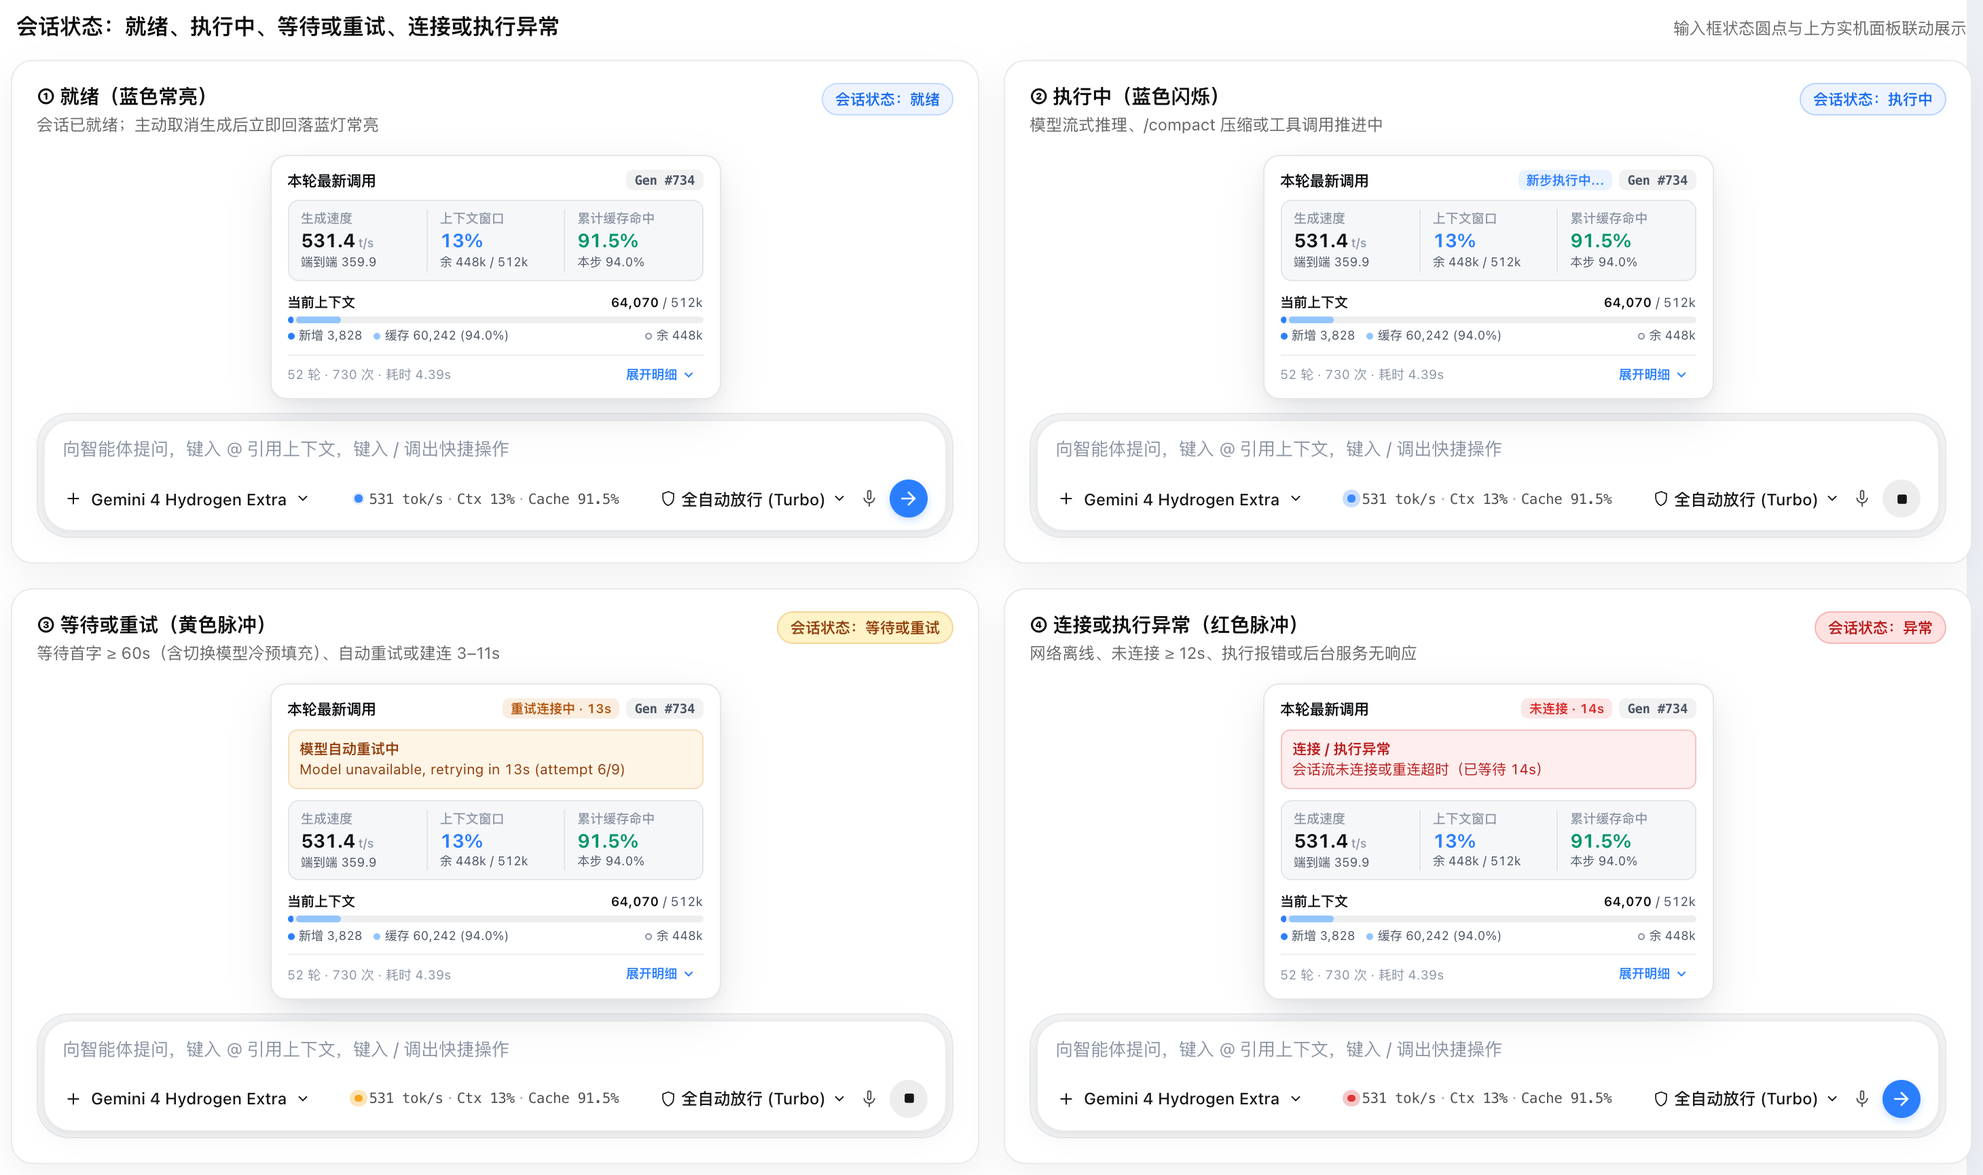
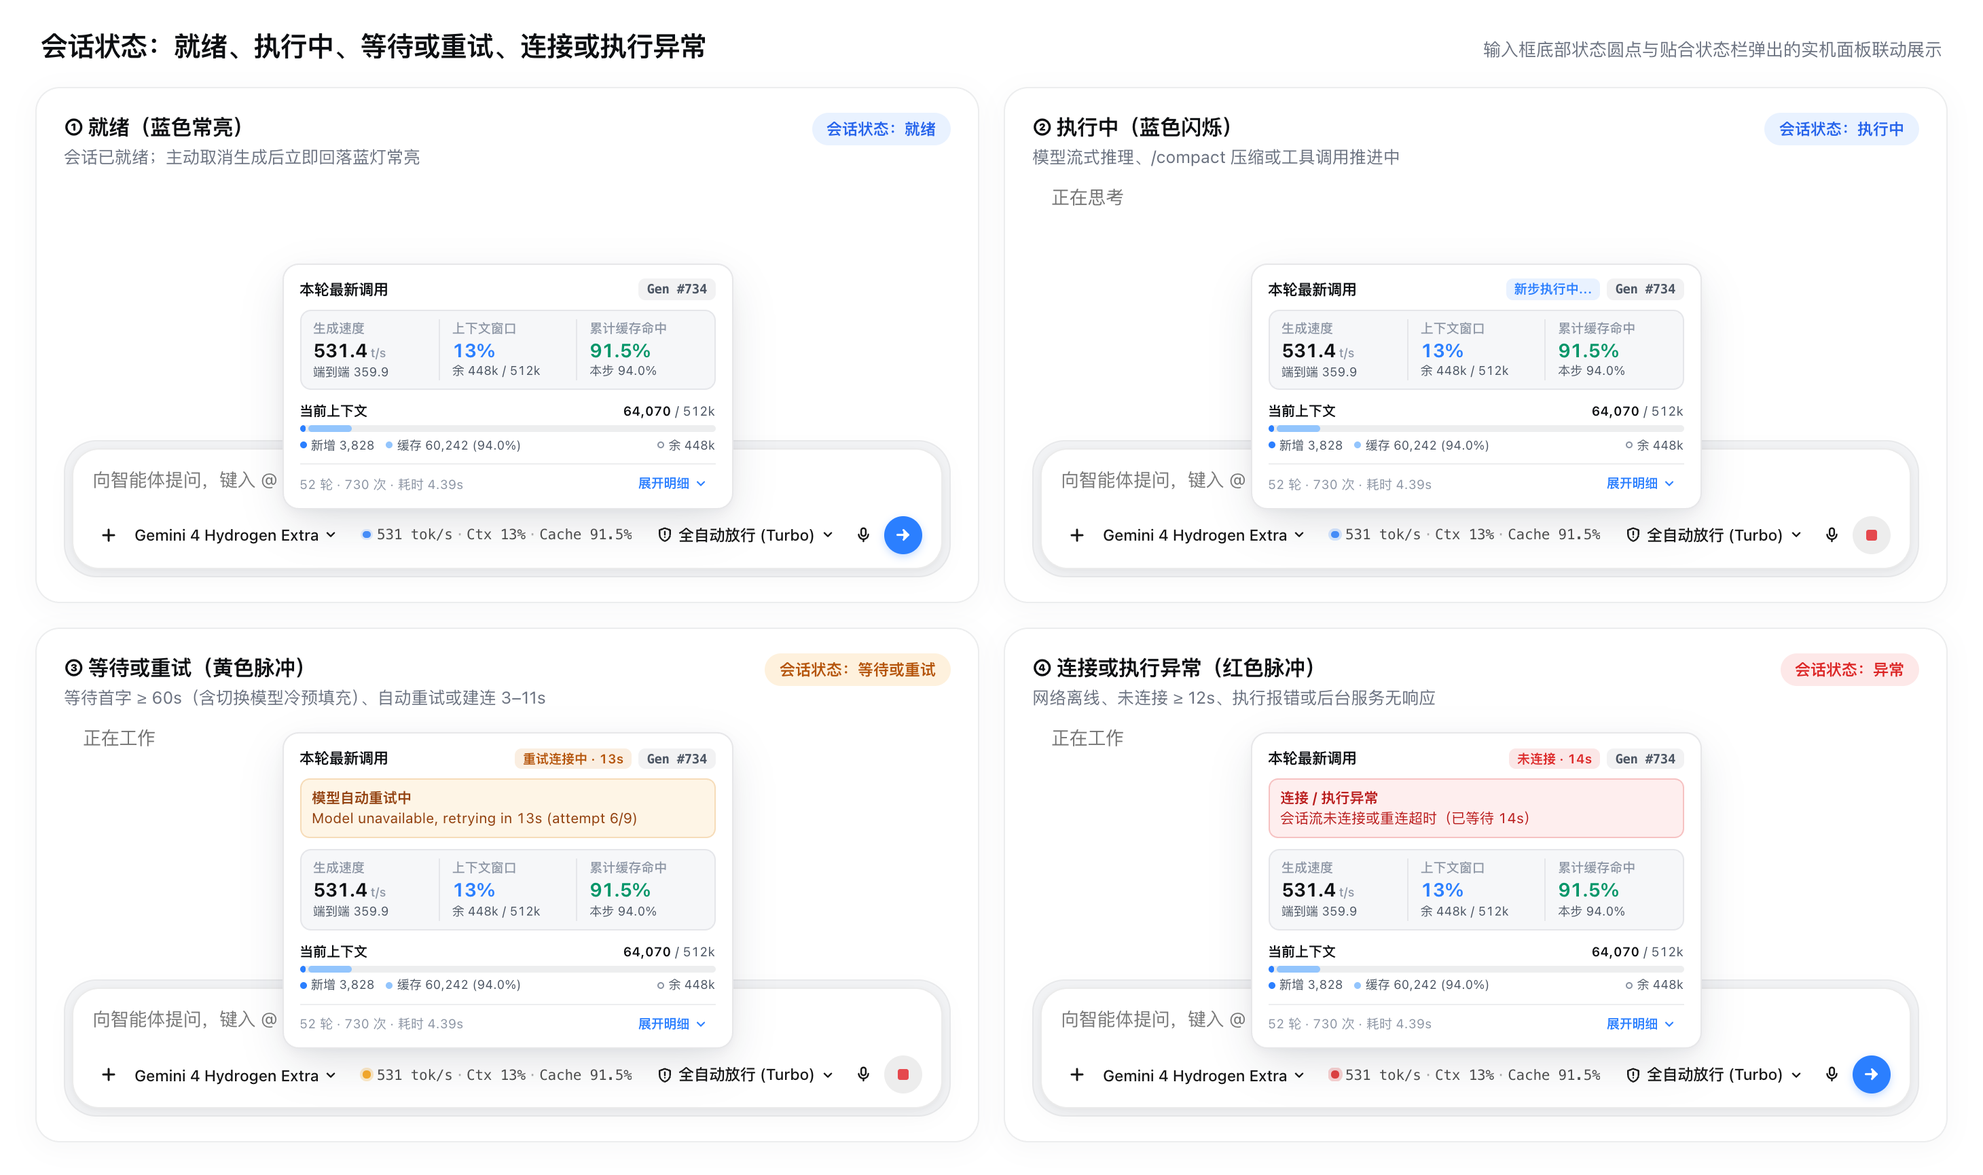
fix(telemetry): keep turn hover breakdown single-line & refresh README hero and assets

diff --git a/core/runtime/50-telemetry-ui.js b/core/runtime/50-telemetry-ui.js
@@ -542,6 +542,7 @@
     if (t.lastCtx > 0) {
       const ctxCls = t.ctxPct >= 90 ? 'ag-tmt-ctx-crit' : t.ctxPct >= 75 ? 'ag-tmt-ctx-warn' : '';
       const ctxVal =
+        '<span class="ag-tmt-nowrap">' +
         escapeStatusHtml(t.lastCtx.toLocaleString('en-US')) +
         ' / ' +
         escapeStatusHtml(t.limitStr) +
@@ -549,13 +550,14 @@
         ctxCls +
         '">(' +
         escapeStatusHtml(String(t.ctxPct)) +
-        '%)</span>';
+        '%)</span></span>';
       rows.push('<div class="ag-tmt-row"><span class="ag-tmt-lbl">当前上下文</span><span class="ag-tmt-val">' + ctxVal + '</span></div>');
     }
     if (t.outTok > 0) {
       const outVal =
+        '<span class="ag-tmt-nowrap">' +
         escapeStatusHtml(t.outTok.toLocaleString('en-US')) +
-        ' <span class="ag-tmt-sub">(思考 ' +
+        '</span> <span class="ag-tmt-nowrap ag-tmt-sub">(思考 ' +
         escapeStatusHtml(t.thinkTok.toLocaleString('en-US')) +
         ' + 正文/工具 ' +
         escapeStatusHtml(t.respTok.toLocaleString('en-US')) +
@@ -565,12 +567,15 @@
     const promptSum = t.inTok + t.cacheWrite + t.cacheRead;
     if (promptSum > 0) {
       const inVal =
-        '新增 ' +
+        '<span class="ag-tmt-nowrap">新增 ' +
         escapeStatusHtml(t.inTok.toLocaleString('en-US')) +
-        (t.cacheWrite > 0 ? ' + 写缓存 ' + escapeStatusHtml(t.cacheWrite.toLocaleString('en-US')) : '') +
-        ' + 读缓存 ' +
+        '</span>' +
+        (t.cacheWrite > 0
+          ? ' <span class="ag-tmt-nowrap">+ 写缓存 ' + escapeStatusHtml(t.cacheWrite.toLocaleString('en-US')) + '</span>'
+          : '') +
+        ' <span class="ag-tmt-nowrap">+ 读缓存 ' +
         escapeStatusHtml(t.cacheRead.toLocaleString('en-US')) +
-        ' <span class="ag-tmt-sub">(命中率 ' +
+        '</span> <span class="ag-tmt-nowrap ag-tmt-sub">(命中率 ' +
         escapeStatusHtml(t.cacheRate) +
         ')</span>';
       rows.push('<div class="ag-tmt-row"><span class="ag-tmt-lbl">本轮累计输入</span><span class="ag-tmt-val">' + inVal + '</span></div>');
@@ -578,16 +583,17 @@
     if (t.tps > 0 || t.totDur > 0) {
       const spdVal =
         (t.tps > 0
-          ? escapeStatusHtml(String(t.tps)) +
+          ? '<span class="ag-tmt-nowrap">' +
+            escapeStatusHtml(String(t.tps)) +
             ' tok/s <span class="ag-tmt-sub">(端到端 ' +
             escapeStatusHtml(String(t.e2eTps)) +
-            ' tok/s)</span> · '
+            ' tok/s)</span></span> · '
           : '') +
-        '流式 ' +
+        '<span class="ag-tmt-nowrap">流式 ' +
         escapeStatusHtml(String(t.streamDur)) +
         's / 总计 ' +
         escapeStatusHtml(String(t.totDur)) +
-        's';
+        's</span>';
       rows.push('<div class="ag-tmt-row"><span class="ag-tmt-lbl">速度与耗时</span><span class="ag-tmt-val">' + spdVal + '</span></div>');
     }
 
@@ -663,6 +669,7 @@
       const rect = badge.getBoundingClientRect();
       const vw = window.innerWidth || document.documentElement.clientWidth || 1280;
       const vh = window.innerHeight || document.documentElement.clientHeight || 800;
+      tt.style.left = '12px';
       const ttRect = tt.getBoundingClientRect();
       const ttW = tt.offsetWidth || ttRect.width || 320;
       const ttH = tt.offsetHeight || ttRect.height || 130;

diff --git a/core/styles/30-telemetry.css b/core/styles/30-telemetry.css
@@ -772,7 +772,7 @@
   box-sizing: border-box;
   width: max-content;
   min-width: 280px;
-  max-width: min(420px, calc(100vw - 24px));
+  max-width: min(560px, calc(100vw - 24px));
   padding: 9px 11px;
   border-radius: 10px;
   background-color: var(--ag-tmt-bg) !important;
@@ -860,6 +860,10 @@
   color: var(--ag-tmt-ink) !important;
   text-align: right;
   word-break: keep-all;
+}
+
+#ag-turn-metrics-tooltip .ag-tmt-nowrap {
+  white-space: nowrap;
 }
 
 #ag-turn-metrics-tooltip .ag-tmt-sub {

diff --git a/README.md b/README.md
@@ -1,8 +1,39 @@
-# antigravity-codex-theme
+<div align="center">
 
-面向 Google Antigravity 的 Codex 风格昼夜主题、中文界面与实时会话统计插件。代码按职责拆分为 27 个独立模块，支持按需启用，也便于在此基础上二次开发。
+<h1>antigravity-codex-theme</h1>
 
-[快速安装](#快速安装) · [按需安装](#按需安装) · [功能详解](#功能详解) · [自定义与卸载](#自定义与卸载) · [致谢与协议](#致谢与协议) · [English](#english-overview)
+<p><strong>Google Antigravity 的 Codex 风格昼夜主题、中文界面与实时会话统计插件</strong></p>
+
+<p>
+  <a href="#快速安装">快速安装</a> ·
+  <a href="#按需安装">按需安装</a> ·
+  <a href="#功能详解">功能详解</a> ·
+  <a href="#自定义与卸载">自定义与卸载</a> ·
+  <a href="#致谢与协议">致谢与协议</a> ·
+  <a href="#english-overview">English</a>
+</p>
+
+<p>
+  不修改安装包本体，通过本地 CDP 实时注入 Codex 昼夜主题、1,860+ 条中文界面、四态会话指示与每轮 Token 拆解。<br>
+  核心代码拆分为 27 个独立模块，支持 <code>--only</code> 按需安装与 Fork 自由定制。
+</p>
+
+<p>
+  <a href="https://github.com/nkjDSLcvanv/antigravity-codex-theme/actions/workflows/ci.yml"><img src="https://img.shields.io/github/actions/workflow/status/nkjDSLcvanv/antigravity-codex-theme/ci.yml?branch=main&label=CI&labelColor=363636&logo=githubactions&logoColor=white" alt="CI"></a>
+  <img src="https://img.shields.io/static/v1?label=Antigravity&message=2.30.x%20~%202.33.0%2B&color=2B7FFF&labelColor=363636" alt="Antigravity 2.30.x ~ 2.33.0+">
+  <img src="https://img.shields.io/static/v1?label=Node.js&message=%3E%3D%2022.13.0&color=339933&labelColor=363636&logo=nodedotjs&logoColor=white" alt="Node.js >= 22.13.0">
+  <img src="https://img.shields.io/static/v1?label=platform&message=macOS%20%C2%B7%20Windows%20%C2%B7%20Linux&color=4B5563&labelColor=363636" alt="macOS · Windows · Linux">
+  <img src="https://img.shields.io/static/v1?label=version&message=v1.1.0&color=2B7FFF&labelColor=363636" alt="version v1.1.0">
+  <a href="LICENSE"><img src="https://img.shields.io/static/v1?label=license&message=MIT&color=10B981&labelColor=363636" alt="MIT License"></a>
+</p>
+
+<p>
+  <a href="#命令行安装"><img src="https://img.shields.io/static/v1?label=CLI%20INSTALL&message=v1.1.0&color=2B7FFF&style=for-the-badge&labelColor=181818&logo=gnubash&logoColor=white" alt="CLI Install"></a>
+  <a href="#ai-一键安装"><img src="https://img.shields.io/static/v1?label=AI%20ONE-CLICK&message=SKILL.md&color=0D9488&style=for-the-badge&labelColor=181818&logo=googlegemini&logoColor=white" alt="AI One-Click Install"></a>
+  <a href="#按需安装"><img src="https://img.shields.io/static/v1?label=SELECTIVE%20INSTALL&message=--only&color=6366F1&style=for-the-badge&labelColor=181818&logo=codesandbox&logoColor=white" alt="Selective Install"></a>
+</p>
+
+</div>
 
 ![Codex 浅色与深色模式对比](assets/light-dark-themes.png)
 
@@ -14,13 +45,15 @@
 
 ## 快速安装
 
-环境要求与系统变更说明（两种安装方式共用）：
+> 前置要求：**Node.js >= 22.13.0**（与 [package.json](package.json) 一致）与 Google Antigravity（`2.30.x` 至 `2.33.0+`），已在 **macOS / Windows / Linux 桌面端**完成实机安装与卸载验证。安装仅部署至 `~/.gemini/antigravity/codex-theme`、配置本地调试端口并注册后台自启，**不修改安装包本体**；若安装前应用已在无调试端口状态下运行，重启一次或在外部终端执行 `node install.mjs relaunch` 即可生效。
 
-- **运行环境**：需要 **Node.js >= 22.13.0**（与 [package.json](package.json) 一致，用于内置 `node:sqlite` 读取实时会话统计）及 Google Antigravity（`2.30.x` 至 `2.33.0+`）。
-- **已验证平台**：已在 **macOS + Antigravity `2.31.0` / `2.32.1` / `2.33.0` + Node.js `v24.4.1`** 完成实机验证（涵盖 `LaunchAgent` 注册、`2.33.0` 调试端口冷启动接力、实时注入、状态面板切换与卸载还原）。仓库同时提供 Windows（`schtasks` / VBS / 注册表及 `.lnk` 参数配置）与 Linux（`systemd --user` 及 `.desktop` 启动项）脚本，GitHub Actions CI 在 `ubuntu-latest` 上执行 `npm run check` 与 `npm test`，**尚未在 Windows 与 Linux 桌面环境中实机测试安装与卸载**。
-- **系统变更**：
-  1. 适配 **Antigravity `2.33.0+`**：新版本默认关闭本地 `DevToolsActivePort`，需携带 `--remote-debugging-port=0` 启动。macOS 默认采用单图标模式，由后台守护进程在应用冷启动前 `12s`（自动更新重启时 `25s`）内自动补齐参数重启，不中断已在运行中的会话；Windows 与 Linux 则为快捷方式或 `.desktop` 启动项追加该参数，并保留 `~/.antigravity/argv.json` 兼容配置。若安装前 Antigravity 已在无调试端口状态下运行，安装完成后重启一次应用，或在外部终端执行 `node install.mjs relaunch` 即可生效。
-  2. 插件文件部署至 `~/.gemini/antigravity/codex-theme`，并注册系统后台自启服务（macOS `LaunchAgent` / Linux `systemd --user` / Windows `schtasks`），**不修改 Antigravity 安装包内的任何文件**。
+<details>
+<summary>查看各平台实测细节与 Antigravity 2.33.0+ 调试端口说明</summary>
+
+- **实机验证范围**：已在 macOS、Windows 与 Linux 桌面端完成安装、实时注入与卸载还原测试（覆盖 Antigravity `2.31.0` / `2.32.1` / `2.33.0`、macOS `LaunchAgent`、Windows `schtasks` / VBS / 注册表与 `.lnk` 参数配置、Linux `systemd --user` 与 `.desktop` 启动项）；GitHub Actions CI 在 `ubuntu-latest` 上持续执行 `npm run check` 与 `npm test`。
+- **Antigravity `2.33.0+` 适配**：新版本默认关闭本地 `DevToolsActivePort`，需携带 `--remote-debugging-port=0` 启动。macOS 默认采用单图标模式，后台守护进程仅在冷启动前 `12s`（自动更新重启时 `25s`）内补参接力重启，不中断已在运行中的会话；Windows 与 Linux 则为快捷方式或 `.desktop` 启动项追加该参数，并保留 `~/.antigravity/argv.json` 兼容写入。
+
+</details>
 
 ### 命令行安装
 
@@ -33,20 +66,13 @@ node --disable-warning=ExperimentalWarning install.mjs doctor
 
 ### AI 一键安装
 
-将以下提示词发送给 AI 助手（Antigravity / Claude Code / Codex / Cursor 等），自动完成稀疏拉取、部署与状态校验：
+将以下提示词发送给 AI 助手（Antigravity / Claude Code / Codex / Cursor 等），自动完成拉取、部署与状态校验：
 
 > 请读取 `https://github.com/nkjDSLcvanv/antigravity-codex-theme.git`，使用 `git clone --depth=1 --filter=blob:none --sparse` 拉取核心文件（参考仓库内的 `SKILL.md`，跳过 `assets/` 和 `tests/`；如需只装部分功能可追加 `--only` 参数），运行 `node install.mjs install`、`node --disable-warning=ExperimentalWarning install.mjs doctor` 和 `verify` 完成安装并确认实时注入正常。
 
 ### 按需安装
 
-4 个功能模块彼此独立，可仅安装所需部分：
-
-| 模块 | 说明 |
-| :--- | :--- |
-| `theme` | Codex 浅色 (`codex-pure-white`) 与深色 (`codex-dark`) 昼夜主题 |
-| `i18n` | 中文界面本地化（`1,860+` 条词条，`WeakMap` 原地更新） |
-| `metrics` | 实时会话状态指示、一/二级用量统计面板与每轮对话尾部统计 |
-| `fixes` | 设置弹窗路由死锁修复与 `Cmd/Ctrl + -/=/0` 界面缩放快捷键 |
+支持通过 `--only` 从 `theme`、`i18n`、`metrics`、`fixes` 四个独立模块中按需组合：
 
 ```bash
 # 示例：仅启用中文界面与实时统计，保留 Antigravity 原生配色
@@ -54,7 +80,14 @@ node install.mjs install --only i18n,metrics
 ```
 
 <details>
-<summary>精简拉取（跳过截图资源，或仅下载指定模块文件）</summary>
+<summary>查看模块说明与精简拉取命令（跳过截图或单模块下载）</summary>
+
+| 模块 | 说明 |
+| :--- | :--- |
+| `theme` | Codex 浅色 (`codex-pure-white`) 与深色 (`codex-dark`) 昼夜主题 |
+| `i18n` | 中文界面本地化（`1,860+` 条词条，`WeakMap` 原地更新） |
+| `metrics` | 实时会话状态指示、一/二级用量统计面板与每轮对话尾部统计 |
+| `fixes` | 设置弹窗路由死锁修复与 `Cmd/Ctrl + -/=/0` 界面缩放快捷键 |
 
 **1. 跳过 `assets/` 与 `tests/`，仅拉取运行核心文件（全平台通用）：**
 
@@ -123,17 +156,31 @@ node install.mjs install --only i18n --minimal
 
 *会话状态：就绪、执行中、等待或重试、连接或执行异常*
 
-悬停在状态栏上可预览一级面板，单击可固定展开，查看最近一次调用的生成速度（`tok/s` 与端到端均值）、上下文占比与剩余容量、累计缓存命中率、当前上下文构成条（新增 / 写缓存 / 读缓存 / 剩余）以及等待或异常原因。再次点击状态栏（或点击面板内的「展开明细」）可打开二级面板，查看首字延迟（TTFT）、流式耗时、思考与正文输出拆分、本轮多步汇总及会话累计输入输出。点击空白区域、按 `Esc` 或第三次点击状态栏即可收起。
+#### 用量面板与上下文预警
 
-上下文占比达到 `>= 75%` 时转为黄色预警，`>= 90%` 时转为红色提示。执行 `/compact` 期间实时显示压缩进度（跨模型切换压缩时提示 KV 缓存重算），完成后以绿色标记显示摘要大小。状态栏支持 `compact`（默认）与 `detailed`（附带 `TTFT` 与 `Out`）两种样式；侧边栏宽度不足时自动换行至输入框底部独立区域，不遮挡发送按钮。
+- 悬停在状态栏上可预览一级面板，单击可固定展开，展示最近一次调用的生成速度（`tok/s` 与端到端均值）、上下文占比与剩余容量、累计缓存命中率、当前上下文分段条（新增 / 写缓存 / 读缓存 / 剩余）以及等待或异常原因。
+- 再次点击状态栏（或点击面板内的「展开明细」）可展开二级面板，补充首字延迟（TTFT）、流式耗时、思考与正文输出拆分、本轮多步汇总及会话累计输入输出；点击空白处、按 `Esc` 或第三次点击状态栏即可收起。
+- 上下文占比达到 `>= 75%` 时转为黄色预警，`>= 90%` 时转为红色提示；执行 `/compact` 期间实时显示压缩进度（跨模型切换压缩时提示 KV 缓存重算），完成后以绿色标记展示摘要大小（面板效果见文首总览图）。
+
+#### 状态栏自适应布局
+
+底部状态栏支持三种显示形态，可通过 [user/config.json](user/config.json) 中的 `telemetryLayout` 切换：
+
+- `compact`（默认）：在工具栏居中显示核心指标（`tok/s`、`Ctx`、`Cache`）。
+- `detailed`：补充展示首字延迟（`TTFT`）、精确上下文与本步输出（`Out`）。
+- 窄侧栏自适应：工具栏宽度不足时自动移至输入框底部独立虚线行，不遮挡模型选择器与发送按钮。
 
 ![白日模式下状态栏三种自适应布局](assets/telemetry-layouts.png)
+
+*状态栏三种自适应布局：默认紧凑、详细模式与窄侧栏自动换行*
 
 #### 每轮对话尾部统计
 
 每条助手回复底部的操作栏左侧附带当轮统计摘要，包含模型名称、输入输出 Token、缓存命中率与生成速度。鼠标悬停约 `80ms` 弹出详情卡，展示当轮步数、精确上下文占比、思考与正文/工具输出拆分、新增与读缓存输入，以及流式与总耗时：
 
 ![每轮对话尾部统计悬浮详情卡](assets/turn-hover-card.png)
+
+*每轮助手回复尾部统计与 80ms 悬浮详情卡*
 
 ### 中文界面汉化
 
@@ -162,7 +209,7 @@ node install.mjs install --only i18n --minimal
 - [user/i18n.override.json](user/i18n.override.json)：追加或覆盖界面翻译词条。
 - [user/custom.css](user/custom.css) 与 [user/custom.js](user/custom.js)：注入自定义样式与前端脚本钩子，支持热重载自动清理。
 
-### 二次开发（`core/` 目录）
+### 源码定制（`core/` 目录）
 
 核心代码拆分为 27 个独立模块，配套 27 项 `node:test` 单元测试，可按职责定位修改：
 
@@ -231,6 +278,6 @@ antigravity-codex-theme/
 - A live bottom status bar tracking four session states (ready, running, waiting or retrying, error) via React Fiber probes, Language Server logs, and SQLite telemetry, paired with two-level usage panels and per-turn token stats with an `80ms` hover breakdown card.
 - Chinese UI localization (`1,860+` entries) applied in place through a `WeakMap` observer, customizable via `user/i18n.override.json`.
 - Selective module installation via `--only` (`theme`, `i18n`, `metrics`, `fixes`), Git sparse checkout, and `--minimal` pruning.
-- Antigravity `2.33.0+` support with a single-icon `--remote-debugging-port=0` cold-start relay (`cdpAutoRelaunch`) and `node install.mjs relaunch` with active-WAL protection. End-to-end installation and uninstall are verified on macOS with Antigravity `2.31.0`, `2.32.1`, and `2.33.0` on Node.js `v24.4.1` (requires Node.js `>= 22.13.0`). Windows and Linux service scripts are included, and CI runs syntax checks and unit tests on Ubuntu.
+- Antigravity `2.33.0+` support with a single-icon `--remote-debugging-port=0` cold-start relay (`cdpAutoRelaunch`) and `node install.mjs relaunch` with active-WAL protection. End-to-end installation and uninstall are verified across macOS, Windows, and Linux desktops (Antigravity `2.31.0`, `2.32.1`, and `2.33.0`; requires Node.js `>= 22.13.0`), alongside Ubuntu CI syntax checks and unit tests.
 
 Early research drew inspiration from [Anarcadia/chuanban-antigravity-theme-patch](https://github.com/Anarcadia/chuanban-antigravity-theme-patch) (MIT) for CDP runtime injection, `WeakMap` localization, SQLite telemetry, and `2.33.0` opt-in launch handling. This repository rebuilds the architecture into modular components and adds the Codex light/dark themes, four-state session monitor, two-level usage panels, per-turn hover cards, and selective installs under the [MIT License](LICENSE).

diff --git a/SKILL.md b/SKILL.md
@@ -10,7 +10,7 @@ Follow this guide when a user asks you to install, selectively install specific 
 > **Platform & Node.js Alignment**:
 > - Minimum Node.js version: **`>= 22.13.0`** (aligned with `package.json`, required for built-in `node:sqlite`).
 > - Supported Antigravity versions: **`2.30.x` – `2.33.0+`** (includes single-icon M1/M2 `--remote-debugging-port=0` opt-in relaunch for `2.33.0+`).
-> - Real-device verified environment: **macOS** with Antigravity **`2.31.0` / `2.32.1` / `2.33.0`** and Node.js `v24.4.1`. Windows (`schtasks` + `.lnk`) and Linux (`systemd --user` + `.desktop`) implementations are included, while CI (`ubuntu-latest`) covers syntax checks and unit tests only.
+> - Real-device verified platforms: **macOS, Windows, and Linux desktops** with Antigravity **`2.31.0` / `2.32.1` / `2.33.0`** (covering macOS `LaunchAgent`, Windows `schtasks` + `.lnk`, and Linux `systemd --user` + `.desktop`), plus GitHub Actions CI (`ubuntu-latest`) for syntax checks and unit tests.
 
 ## 1. Key Paths & Service Identifiers
 
